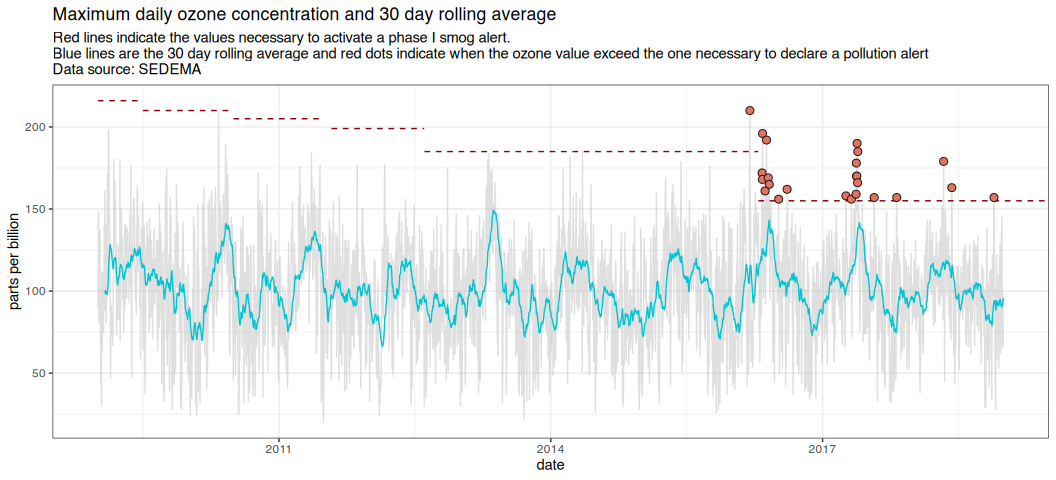
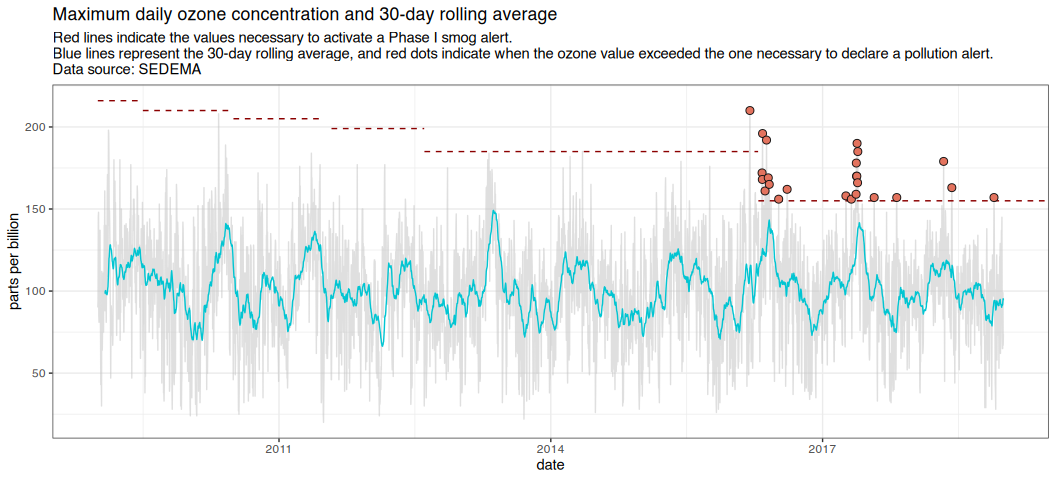
Update md files generated by index.Rmd and readme.Rmd

Changed region(s): [[0.0938, 0.0, 0.9375, 0.125]]

diff --git a/readme.md b/readme.md
@@ -22,13 +22,13 @@ Status](https://img.shields.io/codecov/c/github/diegovalle/aire.zmvm/master.svg)
 
 ## What does it do?
 
-Tools for downloading airquality data for the Mexico City metro area.
-This package can download real-time, daily maximum, minimum, or hourly
-average data for each of the pollution measuring stations or
-geographical zones in the Zona Metropolitana del Valle de México
-(greater Mexico City). It also includes the locations of all the
-measuring stations and a function to perform inverse distance weighting
-modified to work with wind direction.
+Tools for downloading air quality data for the Mexico City metro area.
+This package can download real-time, daily maximum, daily minimum, or
+hourly average data for each pollution monitoring station or
+geographical zone in the Zona Metropolitana del Valle de México (Greater
+Mexico City). It also includes the locations of all measuring stations
+and a function to perform inverse distance weighting modified to work
+with wind direction.
 
 ## Installation
 
@@ -48,26 +48,26 @@ install.packages("aire.zmvm")
 library(aire.zmvm)
 ```
 
-Note that the version on CRAN might not reflect the most recent changes
-made to this package.
+Note that the version on CRAN may not reflect the latest changes in this
+repository.
 
 ## Core Functions
 
 The package core functions:
 
 - `get_station_data` and `get_station_month_data` download pollution,
-  wind and temperature data for each of the measuring stations in the
-  original units (ppb, µg/m³, etc).
-- `get_station_imeca` download pollution values for each station in
-  IMECAs
-- `get_zone_imeca` download pollution data in IMECAs for each of the 5
-  geographic zones of Mexico City
-- `get_latest_imeca` download the latest pollution hourly maximums for
-  each of the measuring stations.
-- `idw360` inverse distance weighting modified to work with degrees,
-  useful for wind data
+  wind, and temperature data for each monitoring station in the original
+  units (ppb, µg/m³, etc.).
+- `get_station_imeca` downloads pollution values for each station in
+  IMECAs.
+- `get_zone_imeca` downloads pollution data in IMECAs for each of the
+  five geographic zones of Mexico City.
+- `get_latest_imeca` downloads the latest hourly pollution maximums for
+  each monitoring station.
+- `idw360` provides inverse distance weighting modified to work with
+  degrees, which is useful for wind data.
 
-| Function | Date range | Units | Wind, Tmp, RH | Earliest Date | Pollutants | Includes All Stations | Criterion |
+| Function | Date range | Units | Wind, Temp, RH | Earliest Date | Pollutants | Includes All Stations | Criterion |
 |----|----|----|----|----|----|----|----|
 | get_station_data | years | Original | Yes | 1986 | SO2, CO, NO2, O3, PM10, PM25, WSP, WDR, TMP, RH | Yes | hourly, daily maximum, daily minimum |
 | get_station_month_data | 1 month | Original | Yes | 2005‑01 | SO2, CO, NO2, O3, PM10, PM25, WSP, WDR, TMP, RH | Yes | hourly, daily maximum, daily minimum |
@@ -145,12 +145,12 @@ ggplot(max_daily_df,
   xlab("date") +
   ylab("parts per billion") +
   scale_x_continuous(breaks = c(2011, 2014, 2017)) +
-  ggtitle("Maximum daily ozone concentration and 30 day rolling average", 
+  ggtitle("Maximum daily ozone concentration and 30-day rolling average", 
           subtitle = paste0("Red lines indicate the values necessary to ",
-                            "activate a phase I smog alert. \nBlue lines are ",
-                            "the 30 day rolling average and red dots indicate ",
-                            "when the ozone value exceed the one necessary to ",
-                            "declare a pollution alert\nData source: SEDEMA")) + 
+                            "activate a Phase I smog alert. \nBlue lines represent ",
+                            "the 30-day rolling average, and red dots indicate ",
+                            "when the ozone value exceeded the one necessary to ",
+                            "declare a pollution alert.\nData source: SEDEMA")) + 
   theme_bw()
 ```
 

diff --git a/index.md b/index.md
@@ -16,13 +16,13 @@ Status](https://img.shields.io/codecov/c/github/diegovalle/aire.zmvm/master.svg)
 
 <br>
 
-`aire.zmv` is an R package for downloading air quality data from the
-Mexico City metro area. This package can download real-time, daily
-maximum, minimum, or hourly average data for each of the pollution
-measuring stations or geographical zones in the Zona Metropolitana del
-Valle de México (greater Mexico City). It also includes the locations of
-all the measuring stations and zones, and a function to perform inverse
-distance weighting modified to work with wind direction.
+**aire.zmvm** is an R package for downloading air quality data from the
+Mexico City metropolitan area. This package provides real-time, daily
+maximum, minimum, and hourly average data for pollution measuring
+stations and geographical zones within the *Zona Metropolitana del Valle
+de México* (Greater Mexico City). It also includes station locations and
+a specialized function for inverse distance weighting adjusted for wind
+direction.
 
 ## Installation
 
@@ -35,27 +35,27 @@ if (!require(devtools)) {
 devtools::install_github('diegovalle/aire.zmvm')
 ```
 
-To install the most recent package version from CRAN type:
+To install the stable version from CRAN, use:
 
 ``` r
 install.packages("aire.zmvm")
 library(aire.zmvm)
 ```
 
-Note that the version on CRAN might not reflect the most recent changes
-made to this package.
+*Note: The version on CRAN may not include the latest updates available
+on GitHub.*
 
 ## Usage
 
-Create a time series of ozone levels in ppb from 2009 to 2018 and
-highlight the phase I smog alerts.
+This example creates a time series of ozone levels (in ppb) from 2009 to
+2018 and highlights Phase I smog alerts.
 
 ``` r
-## Auto-install required R packages
+# Automatically install and load required packages
 if (!require("pacman")) install.packages("pacman")
 pacman::p_load(aire.zmvm, dplyr, ggplot2, ggseas)
 
-## download pollution data by station in ppb
+# Download pollution data by station (in ppb)
 o3 <- get_station_data(criterion = "MAXIMOS", # Can be one of MAXIMOS (maximum), 
                                               # MINIMOS (minimum), 
                                               # or HORARIOS (hourly average)
@@ -72,8 +72,7 @@ o3_max <- o3 %>%
                          base::max(value, na.rm = TRUE))) %>%
   na.omit()
 
-# ozone threshold for declaring a 'smog alert' and the dates during which they
-# were valid
+# Ozone thresholds for declaring a 'smog alert' and their periods of validity
 # source: 
 # http://www.aire.cdmx.gob.mx/descargas/ultima-hora/calidad-aire/pcaa/pcaa-modificaciones.pdf
 contingencia_levels <- data.frame(
@@ -94,7 +93,7 @@ contingencia$contingencia <- case_when(
 )
 ```
 
-Here’s what the data we just downloaded looks like:
+Below is a preview of the downloaded data:
 
 ``` r
 knitr::kable(head(o3))
@@ -123,12 +122,12 @@ ggplot(max_daily_df,
   xlab("date") +
   ylab("parts per billion") +
   scale_x_continuous(breaks = c(2011, 2014, 2017)) +
-  ggtitle("Maximum daily ozone concentration and 30 day rolling average", 
-          subtitle = paste0("Red lines indicate the values necessary to ",
-                            "activate a phase I smog alert. \nBlue lines are ",
-                            "the 30 day rolling average and red dots indicate ",
-                            "when the ozone value exceed the one necessary to ",
-                            "declare a pollution alert\nData source: SEDEMA")) + 
+  ggtitle("Maximum Daily Ozone Concentration and 30-Day Rolling Average", 
+          subtitle = paste0("Dashed red lines indicate thresholds for ",
+                            "Phase I smog alerts. \nThe blue line represents ",
+                            "the 30-day rolling average, and red dots mark ",
+                            "days when ozone levels triggered a pollution alert.\n",
+                            "Source: SEDEMA")) + 
   theme_bw()
 ```
 
